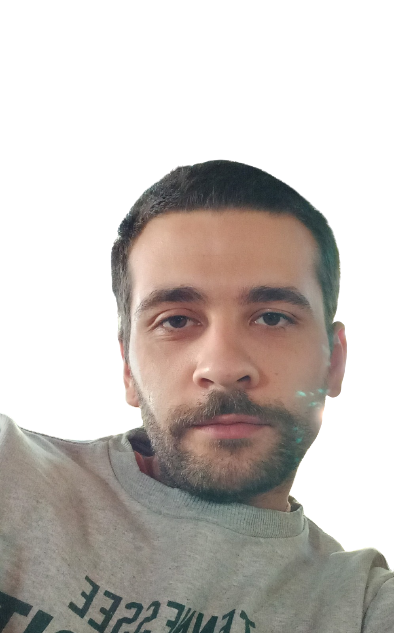
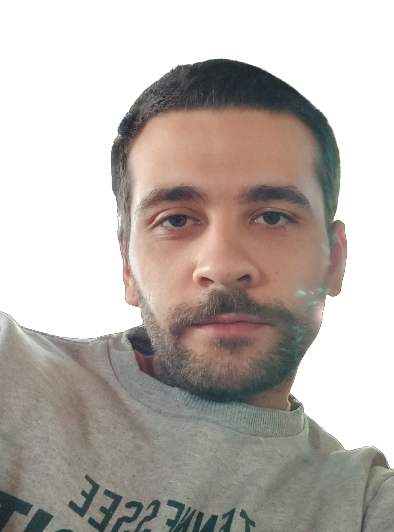
.

diff --git a/Sonyando-main/TPI.html b/Sonyando-main/TPI.html
@@ -36,8 +36,8 @@
 
     <section class="producto">
             <div class="p1">
-            <h3>¿Qué es POT·E?</h3><br>
-            <p>POT·E es nuestra maceta inteligente,  capaz ayudarte a mantener el bienestar de tu planta. Sus sensores permiten que lleves un control de la humedad, de su temperatura y de controlar el tiempo de exposición lumínica que necesesita. Lo unico que debes hacer es descargar nuestra aplicacion gratuita desde la appstore para que te lleguen las notificaciones :)
+            <h2 class="t1">¿Qué es POT·E?</h2><br>
+            <p class="p2">POT·E es nuestra maceta inteligente,  capaz ayudarte a mantener el bienestar de tu planta. Sus sensores permiten que lleves un control de la humedad, de su temperatura y de controlar el tiempo de exposición lumínica que necesesita. Lo unico que debes hacer es descargar nuestra aplicacion gratuita desde la appstore para que te lleguen las notificaciones :)
             <br><b>¡Ella te avisa cuando tienes que regarla y cuando tienes que dejar de hacerlo!</b>
             </p>
             </div>
@@ -46,16 +46,16 @@
 
 
     <section class="description">
-            <h3 class="t1">¿Quienes somos?</h3><br>
-            <p id="">Somos una empresa dirigida por 2 lideres en desarrollo de tecnologias
+            <h2 class="t1">¿Quienes somos?</h2><br>
+            <p class="p2">Somos una empresa dirigida por 2 lideres en desarrollo de tecnologias
                 biodegradables y de productos que benefician al cuidado y proteccion del ambiente.
                 Nos destacamos por nuestros procesos de diseño y trabajo que son rentables para el
                 cliente y para el medio ambiente, tratando de realizar el menor impacto negativo
                 a la naturaleza. Brindando tambien un producto de bajo costo y alta calidad para nuestros clientes.
             </p>
             <div class="phs">
-                <img class="imgsec2" src="/fotos/angie2.png" alt="" width="200">
-                <img class="imgsec2" src="/fotos/franco2.png" alt="" width="200">
+                <img class="imgsec2" src="/fotos/angie3.png" alt="" width="200">
+                <img class="imgsec2" src="/fotos/franco 3.png" alt="" width="200">
             </div>
     </section>
 

diff --git a/Sonyando-main/TPI.css b/Sonyando-main/TPI.css
@@ -9,7 +9,7 @@
 body{
     background-color: yellowgreen;
     background-image: linear-gradient(45deg, #26a119 0%, #FFFB7D 100%);
-    background-repeat: initial;
+/*     background-repeat: initial; */
 }
 
 /* header */
@@ -156,15 +156,28 @@ header .navbar a:hover {
 
 .p1{
     text-align: justify;
-    font-weight: lighter;
+    font-weight: 700;
     padding-top: 90px;
+    color: #ff5e00;
+}
+
+.p2{
+    background-color: yellowgreen;
+    padding: 15px;
+    border-radius: 10px;
+}
+
+.t1{
+    background-color: yellowgreen;
+    padding: 15px;
+    border-radius: 10px;
 }
 
 .app{
     display: flex;
     position: absolute;
     left: 10%;
-    margin-top: -200px;
+    margin-top: -250px;
 }
 
 .description{
@@ -174,6 +187,7 @@ header .navbar a:hover {
     padding: 50px;
     margin: 60px;
     text-align: justify;
+    color: #ff5e00;
 }
 
 
@@ -193,12 +207,13 @@ header .navbar a:hover {
     position: absolute;
 } */
 
-div.phs{
+.imgsec2{
     justify-content: space-between;
-    border-radius: 300px;
-    text-align: center;
+    border-radius: 25px;
     margin: 35px;
-    padding: ;
+    background-color: yellowgreen;
+    background-image: linear-gradient(45deg, #26a119 0%, #FFFB7D 100%);
+    margin-left: 20%;
 
 }
 
